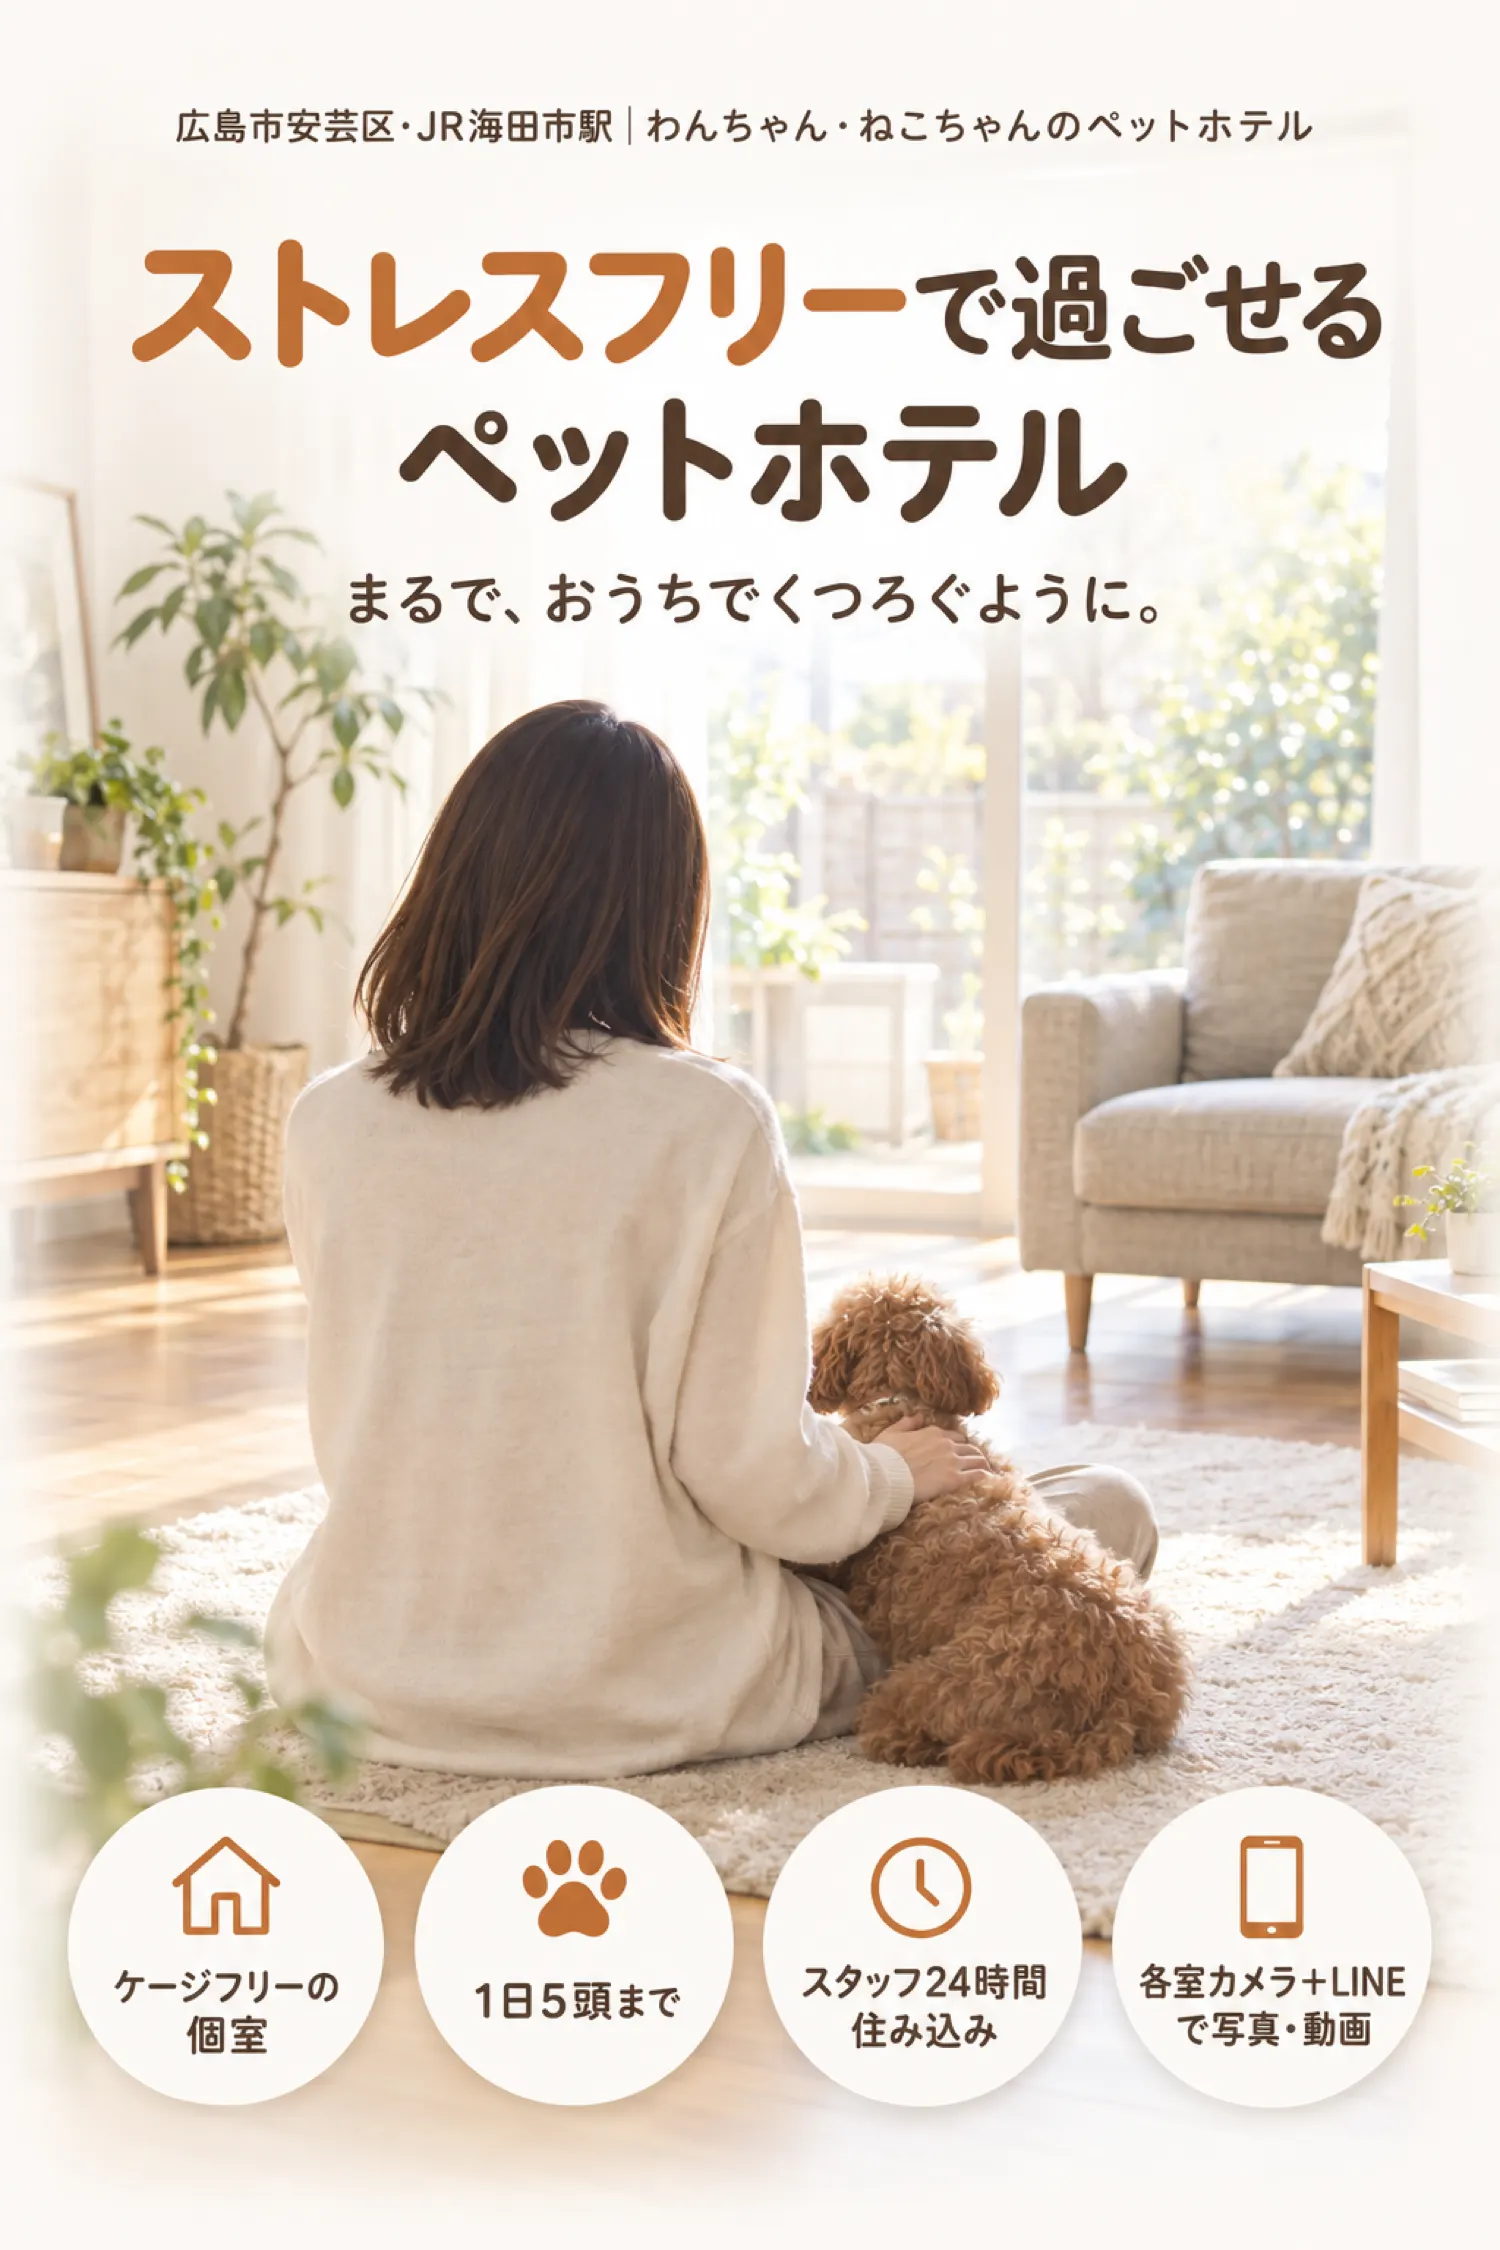
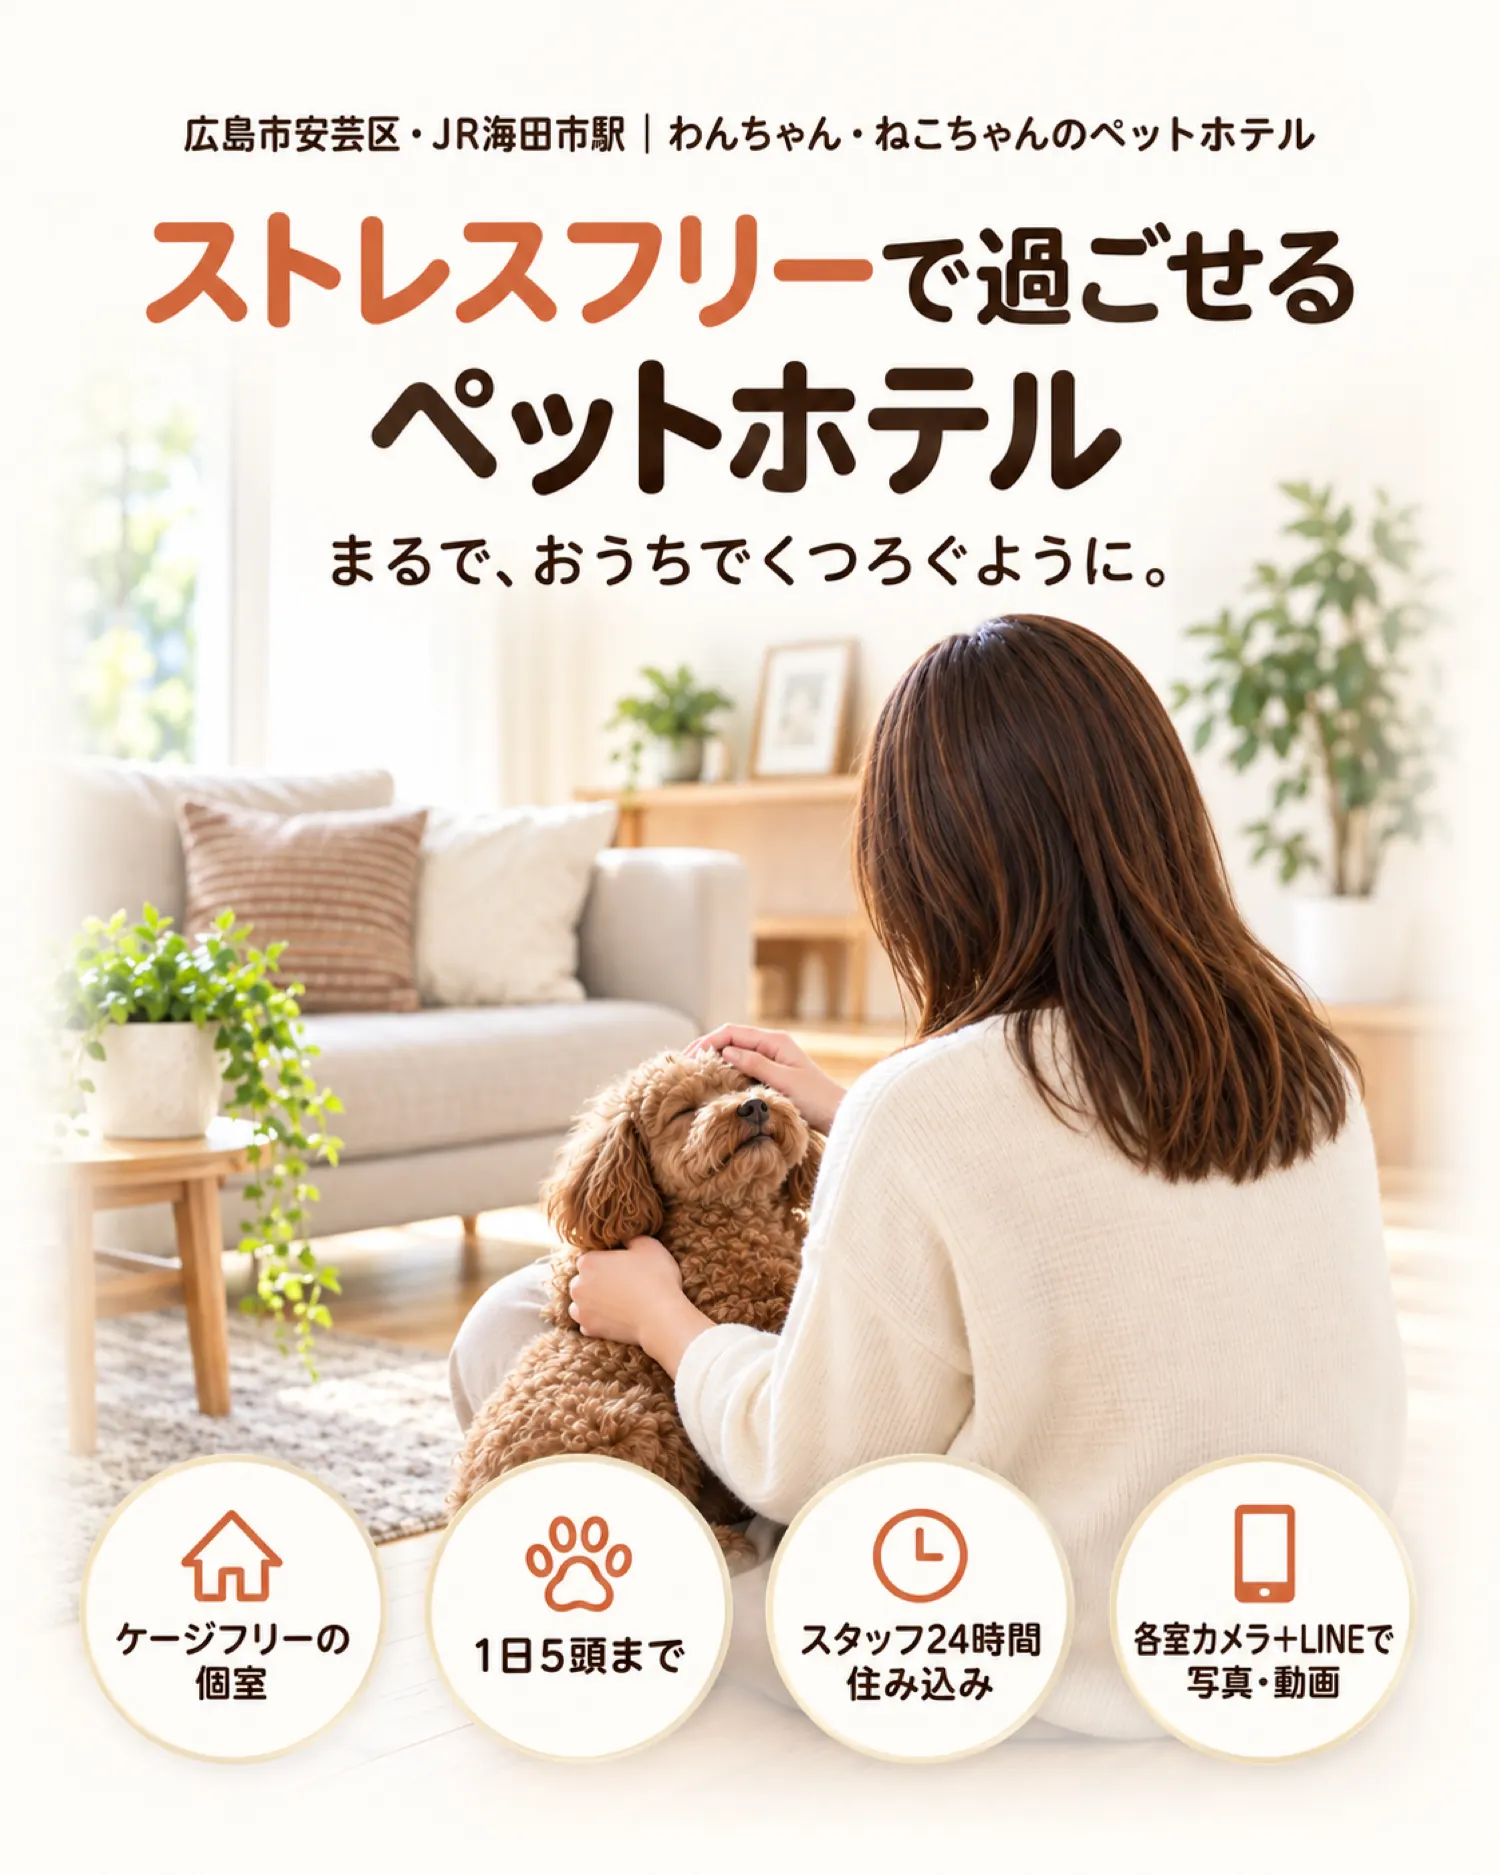
update

diff --git a/index.html b/index.html
@@ -35,7 +35,7 @@
   <link rel="preconnect" href="https://fonts.googleapis.com">
   <link rel="preconnect" href="https://fonts.gstatic.com" crossorigin>
   <link href="https://fonts.googleapis.com/css2?family=Zen+Maru+Gothic:wght@500;700&display=swap" rel="stylesheet">
-  <link rel="preload" as="image" href="img/01-fv.webp?v=4" fetchpriority="high">
+  <link rel="preload" as="image" href="img/01-fv.webp?v=5" fetchpriority="high">
   <link rel="stylesheet" href="css/style.css?v=2">
 </head>
 <body>
@@ -56,7 +56,7 @@
         <img class="fv-logo" src="img/logo.png" alt="KOKOHOREわんにゃん" width="120" height="120" onerror="this.hidden=true">
         <p class="rating" aria-label="Google口コミ評価"><b>★<span data-text="rating">4.6</span></b>Google口コミ<small data-text="ratingDate">2026年8月時点</small></p>
         <div class="photo-wrap">
-          <img src="img/01-fv.webp?v=4" width="1500" height="2250" fetchpriority="high"
+          <img src="img/01-fv.webp?v=5" width="1500" height="1875" fetchpriority="high"
                alt="広島市安芸区・JR海田市駅｜わんちゃん・ねこちゃんのペットホテル。ストレスフリーで過ごせるペットホテル。まるで、おうちでくつろぐように。ケージフリーの個室／1日5頭まで／スタッフ24時間住み込み／各室カメラ＋LINEで写真・動画">
           <span class="img-note">※写真はイメージです</span>
         </div>
